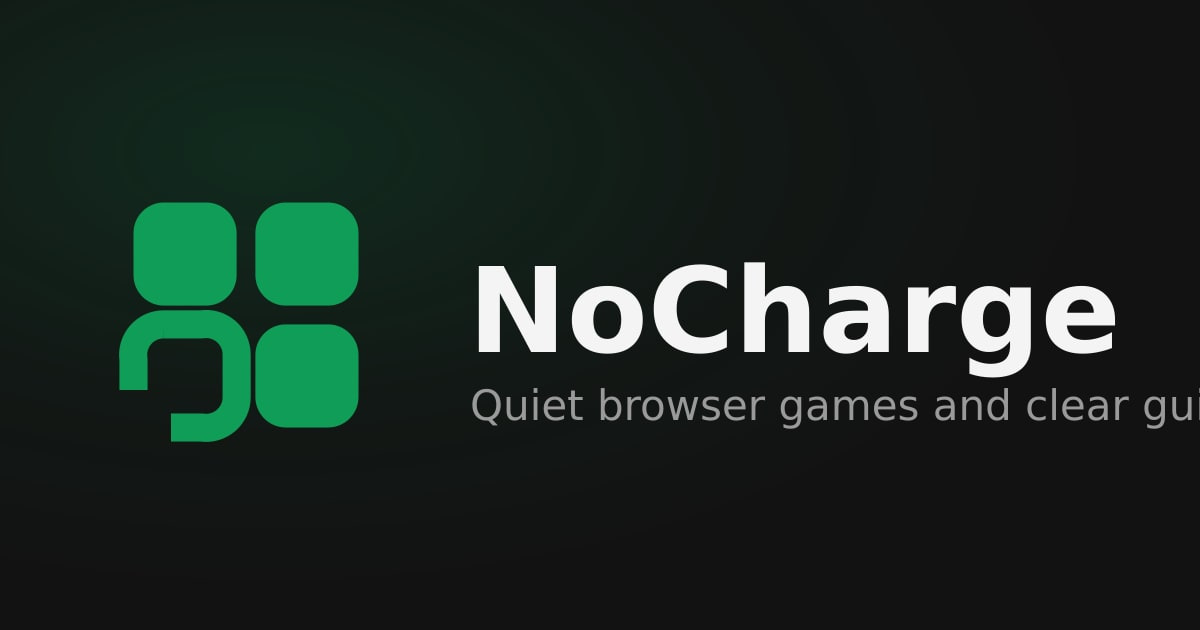
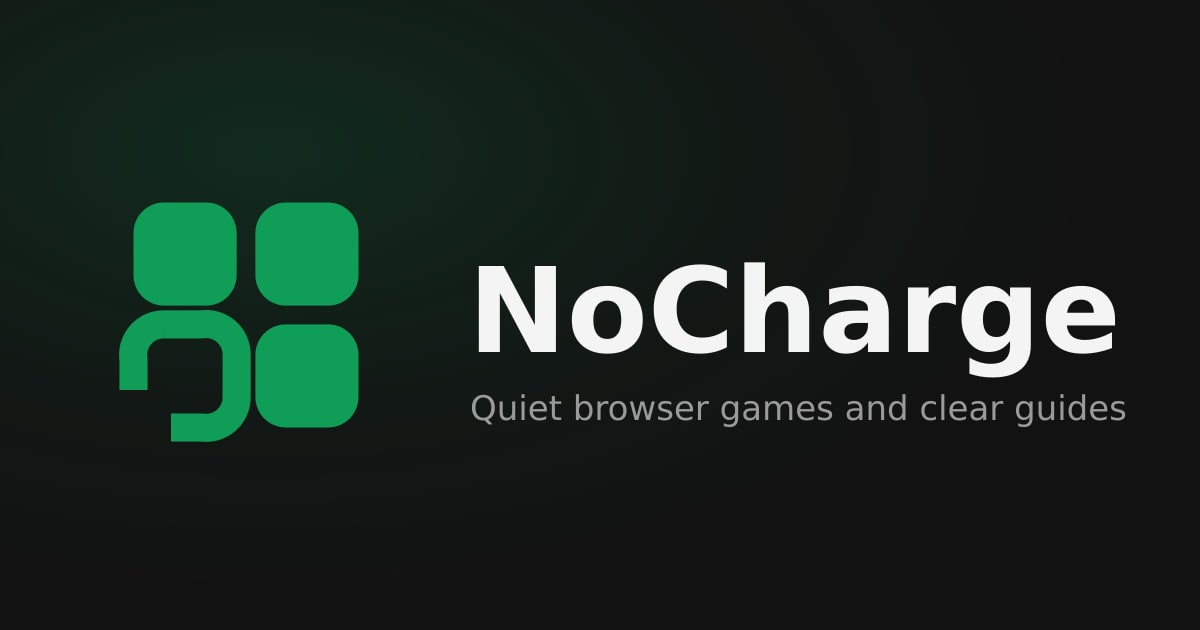
Fix social card descriptor safe-zone margin and enforce it in validation
Pre-merge pixel review found the default card's 42px descriptor line
ended 10px from the right edge (outside crop-safe space). Reset the
descriptor to 34px: title/descriptor ink now ends at x 1114/1124
(right margins 85/75px) with the text block centered on the card.

- generate-brand-assets.mjs: descriptor font-size 42 -> 34
- validate-brand.mjs: new >=56px text-margin safe-zone check on every
  side of the default card (luminance >140 ink); skips absent files so
  unit-test fixtures still work
- regenerate social card jpg/webp and the deterministic media kit
- BRAND_VISUAL_REVIEW.md: record the re-review findings (16px favicon
  gutter/door measurements, maskable centering, avatar, lockup
  determinism) and the card defect + fix

Changed region(s): [[0.37, 0.6032, 1.0, 0.6937]]

diff --git a/docs/BRAND_VISUAL_REVIEW.md b/docs/BRAND_VISUAL_REVIEW.md
@@ -33,6 +33,36 @@ the owner in the `pr-visual-captures` artifact (7-day retention); this
 session could not visually view or fetch the artifact blob, so no
 hand-verified pixel claim is made beyond the measured rows.
 
+## 0. Pre-merge re-review (2026-08-21, merge session)
+
+Before merging, every review question was re-asked against the committed
+files with a pixel-margin audit (`artifacts/ci-artifact/deep-inspect.mjs`,
+scratch, not committed):
+
+- **16 px favicon**: gutter between the tile columns reads as a 2 px seam at
+  luminance 70 between tile 122 and background 18 (ΔL 52 on both sides —
+  maximum separability for a 4-unit gutter at this scale); the doorway is a
+  3–4 px pure-background opening with a clearly separated 2 px frame stroke
+  (94–122 vs 18). Verdict: legible, no simplified variant required.
+- **32 px favicon**: 2 px gutters, 7 px of door ink across the doorway row,
+  stroke-vs-background ΔL 81. PASS.
+- **Default social card**: found the descriptor defect recorded in row 11
+  (fixed before merge; now validator-enforced).
+- **Maskable icons (192/512)**: green ink bounding box fully inside the 80 %
+  safe zone with 24–82 px of slack under circle/rounded/squircle masks;
+  zero green pixels clipped. Bbox center offset (−8, +8) px at 512 comes
+  from the mark's own open-corner geometry (ink bbox 5–59 of 64 units), not
+  misplacement; the tile grid itself is centered. PASS.
+- **Avatar 512**: ink bbox inside the r=180 circle-safe zone, offset
+  (−7, +6) px, same geometric cause. PASS.
+- **Lockups**: dark and light 1200×320 rasters have identical ink extents
+  (43,70)–(1188,266) and 83,139 ink pixels each — same geometry, inverted
+  grounds; deterministic regeneration byte-matches. The raster exports are
+  documented as DejaVu Sans Bold renders of editable SVG text carrying the
+  same font stack as the site header, so on any given OS the SVG lockup and
+  the site header resolve to the same system font; no pixel-match claim is
+  made for the PNGs. PASS.
+
 ## 1. Small-size favicon inspection
 
 Rendered from the canonical geometry with `scripts/inspect-favicons.mjs`
@@ -101,7 +131,7 @@ it.
 | 8 | `08-media-page-320.jpg` | /media/ | 320×700 | PASS | none | — |
 | 9 | `09-media-page-200-percent-zoom.jpg` | /media/, 200 % equivalent viewport | 640×512 | PASS | none | — |
 | 10 | `10-media-download-section.jpg` | /media/ downloads | 1440×900 | PASS — labels name file types | none | — |
-| 11 | `11-default-social-card.jpg` | Rendered file | 1200×630 | PASS — text inside safe zones (deterministic composition) | none | — |
+| 11 | `11-default-social-card.jpg` | Rendered file | 1200×630 | DEFECT FOUND IN RE-REVIEW, then FIXED — the first pass only asserted image dimensions; a pixel-margin audit found the 42 px descriptor line ending 10 px from the right edge (outside crop-safe space). Descriptor reset to 34 px: title/descriptor ink now ends at x 1114/1124 (right margins 85/75 px), text-block center within 4 px of card center. `npm run validate:brand` now enforces a ≥56 px text margin on every side. | Descriptor margin failure | `scripts/generate-brand-assets.mjs` (font-size 42→34) + new safe-zone check in `scripts/validate-brand.mjs`; card and media kit regenerated |
 | 12 | `12-avatar.jpg` | Rendered file | 512×512 | PASS — mark inside circle-safe zone | none | — |
 | 13 | `13-favicon-size-comparison.jpg` | Committed files, 8× nearest | 16…512 | PASS — every size legible | none | — |
 | 14 | `14-maskable-icon-comparison.jpg` | Maskable + mask sims | 512 | PASS — no mark clipping | none | — |
